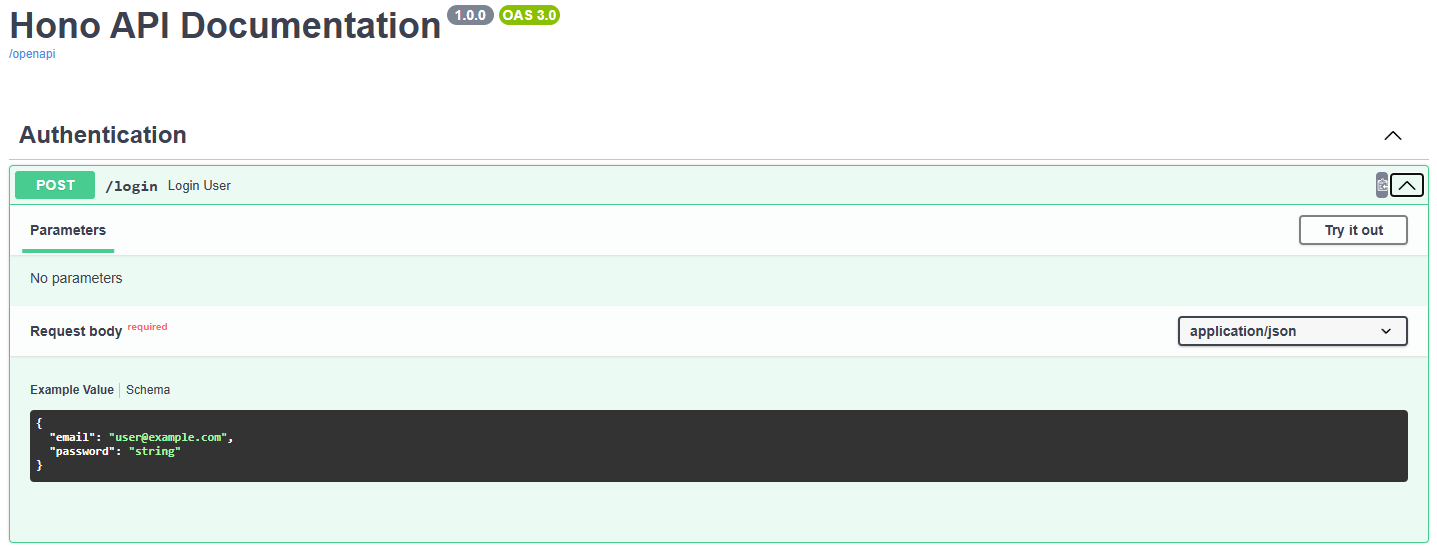
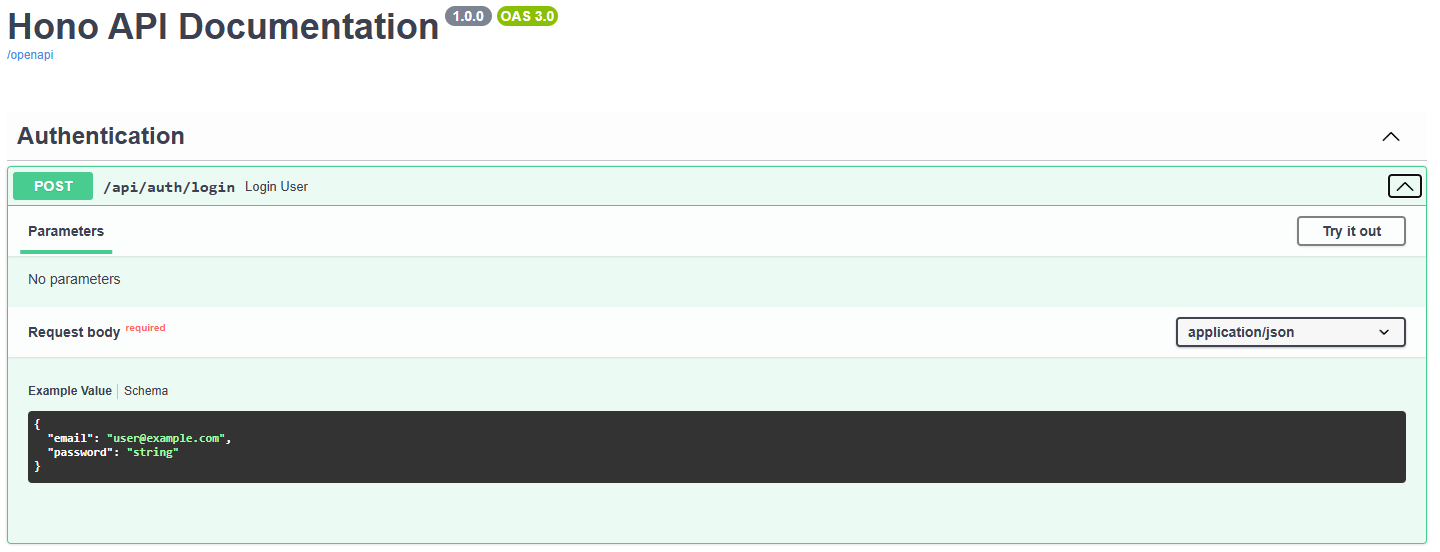
push

diff --git a/swagger-hono-api/src/docs/auth-docs.ts b/swagger-hono-api/src/docs/auth-docs.ts
@@ -1,28 +1,38 @@
 export const authDocs = {
-  '/login': {
+  "/api/auth/login": {
     post: {
-      tags: ['Authentication'],
-      summary: 'Login User',
+      tags: ["Authentication"],
+      summary: "Login User",
       requestBody: {
         required: true,
         content: {
-          'application/json': {
+          "application/json": {
             schema: {
-              type: 'object',
-              required: ['email', 'password'],
+              type: "object",
+              required: ["email", "password"],
               properties: {
                 email: {
-                  type: 'string',
-                  format: 'email',
+                  type: "string",
+                  format: "email",
                 },
                 password: {
-                  type: 'string',
+                  type: "string",
                 },
               },
             },
           },
         },
-      }
+      },
+      responses: {
+        200: {
+          description: "Login Success",
+          content: {
+            "application/json": {
+              example: { data: { message: "Login Successfully" } },
+            },
+          },
+        },
+      },
     },
   },
-}
+};

diff --git a/swagger-hono-api/src/controllers/auth-controller.ts b/swagger-hono-api/src/controllers/auth-controller.ts
@@ -1,0 +1,25 @@
+import { Hono } from 'hono'
+
+const authController = new Hono()
+
+authController.post('/login', async (c) => {
+  // Ambil data dari body
+  const { email, password } = await c.req.json()
+
+  // Simulasi validasi login
+  if (email === 'admin@example.com' && password === 'password') {
+    return c.json({
+      data: {
+        message: 'Login successful',
+      }
+    })
+  } else {
+    return c.json({
+      error: {
+        message: 'Invalid credentials',
+      }
+    }, 401)
+  }
+})
+
+export default authController

diff --git a/swagger-hono-api/src/index.ts b/swagger-hono-api/src/index.ts
@@ -1,12 +1,15 @@
 import { swaggerUI } from '@hono/swagger-ui'
 import { Hono } from 'hono'
 import { authDocs } from './docs/auth-docs'
+import authController from './controllers/auth-controller'
 
 const app = new Hono()
 
 app.get('/', (c) => {
   return c.text('Hello Hono!')
 })
+
+app.route('/api/auth', authController)
 
 app.get('/openapi', (c) => 
   c.json({

diff --git a/swagger-hono-api/README.md b/swagger-hono-api/README.md
@@ -157,7 +157,7 @@ Kira kira seperti ini:
 
 ```js
 export const authDocs = {
-  '/login': {
+  '/api/auth/login': { // disini kita ubah /login menjadi /api/auth/login
     post: {
       tags: ['Authentication'],
       summary: 'Login User',
@@ -189,3 +189,57 @@ export const authDocs = {
 Setelah menambahkan coba refresh browser, kaya gini:
 
 <img class="img-fluid" src="https://raw.githubusercontent.com/feri-irawansyah/docs/refs/heads/main/swagger-hono-api/assets/json-request-body.png" alt="Hono Swagger" />
+
+### JSON Response Body
+Ada request, maka ada response. Untuk response, kita bisa menggunakan JSON response body. Kaya gini:
+```json
+{
+  "data": {
+    "message": "Login successful"
+  }
+}
+```
+Untuk membuat JSON response body pada swagger, kita bisa menggunakan `application/json` seperti berikut:
+```js
+export const authDocs = {
+  '/login': {
+    post: {
+      tags: ['Authentication'],
+      summary: 'Login User',
+      responses: { // tambahkan responses
+        // disini kita bisa menambahkan konfigurasi responses nya
+      }
+    },
+  },
+}
+```
+
+Kira kira seperti ini:
+
+```js
+export const authDocs = {
+  "/api/auth/login": {
+    post: {
+      tags: ["Authentication"],
+      summary: "Login User",
+      // requestBody: {
+        // required: true
+      // }
+      responses: { // tambahkan responses 
+        200: { // status code 200
+          description: "Login Success", // deskripsi
+          content: {
+            "application/json": { // content type json
+              example: { data: { message: "Login Successfully" } }, // contoh response
+            },
+          },
+        },
+      },
+    },
+  },
+};
+```
+
+Setelah menambahkan coba refresh browser, kaya gini:
+
+<img class="img-fluid" src="https://raw.githubusercontent.com/feri-irawansyah/docs/refs/heads/main/swagger-hono-api/assets/response-200.png" alt="Hono Swagger" />
